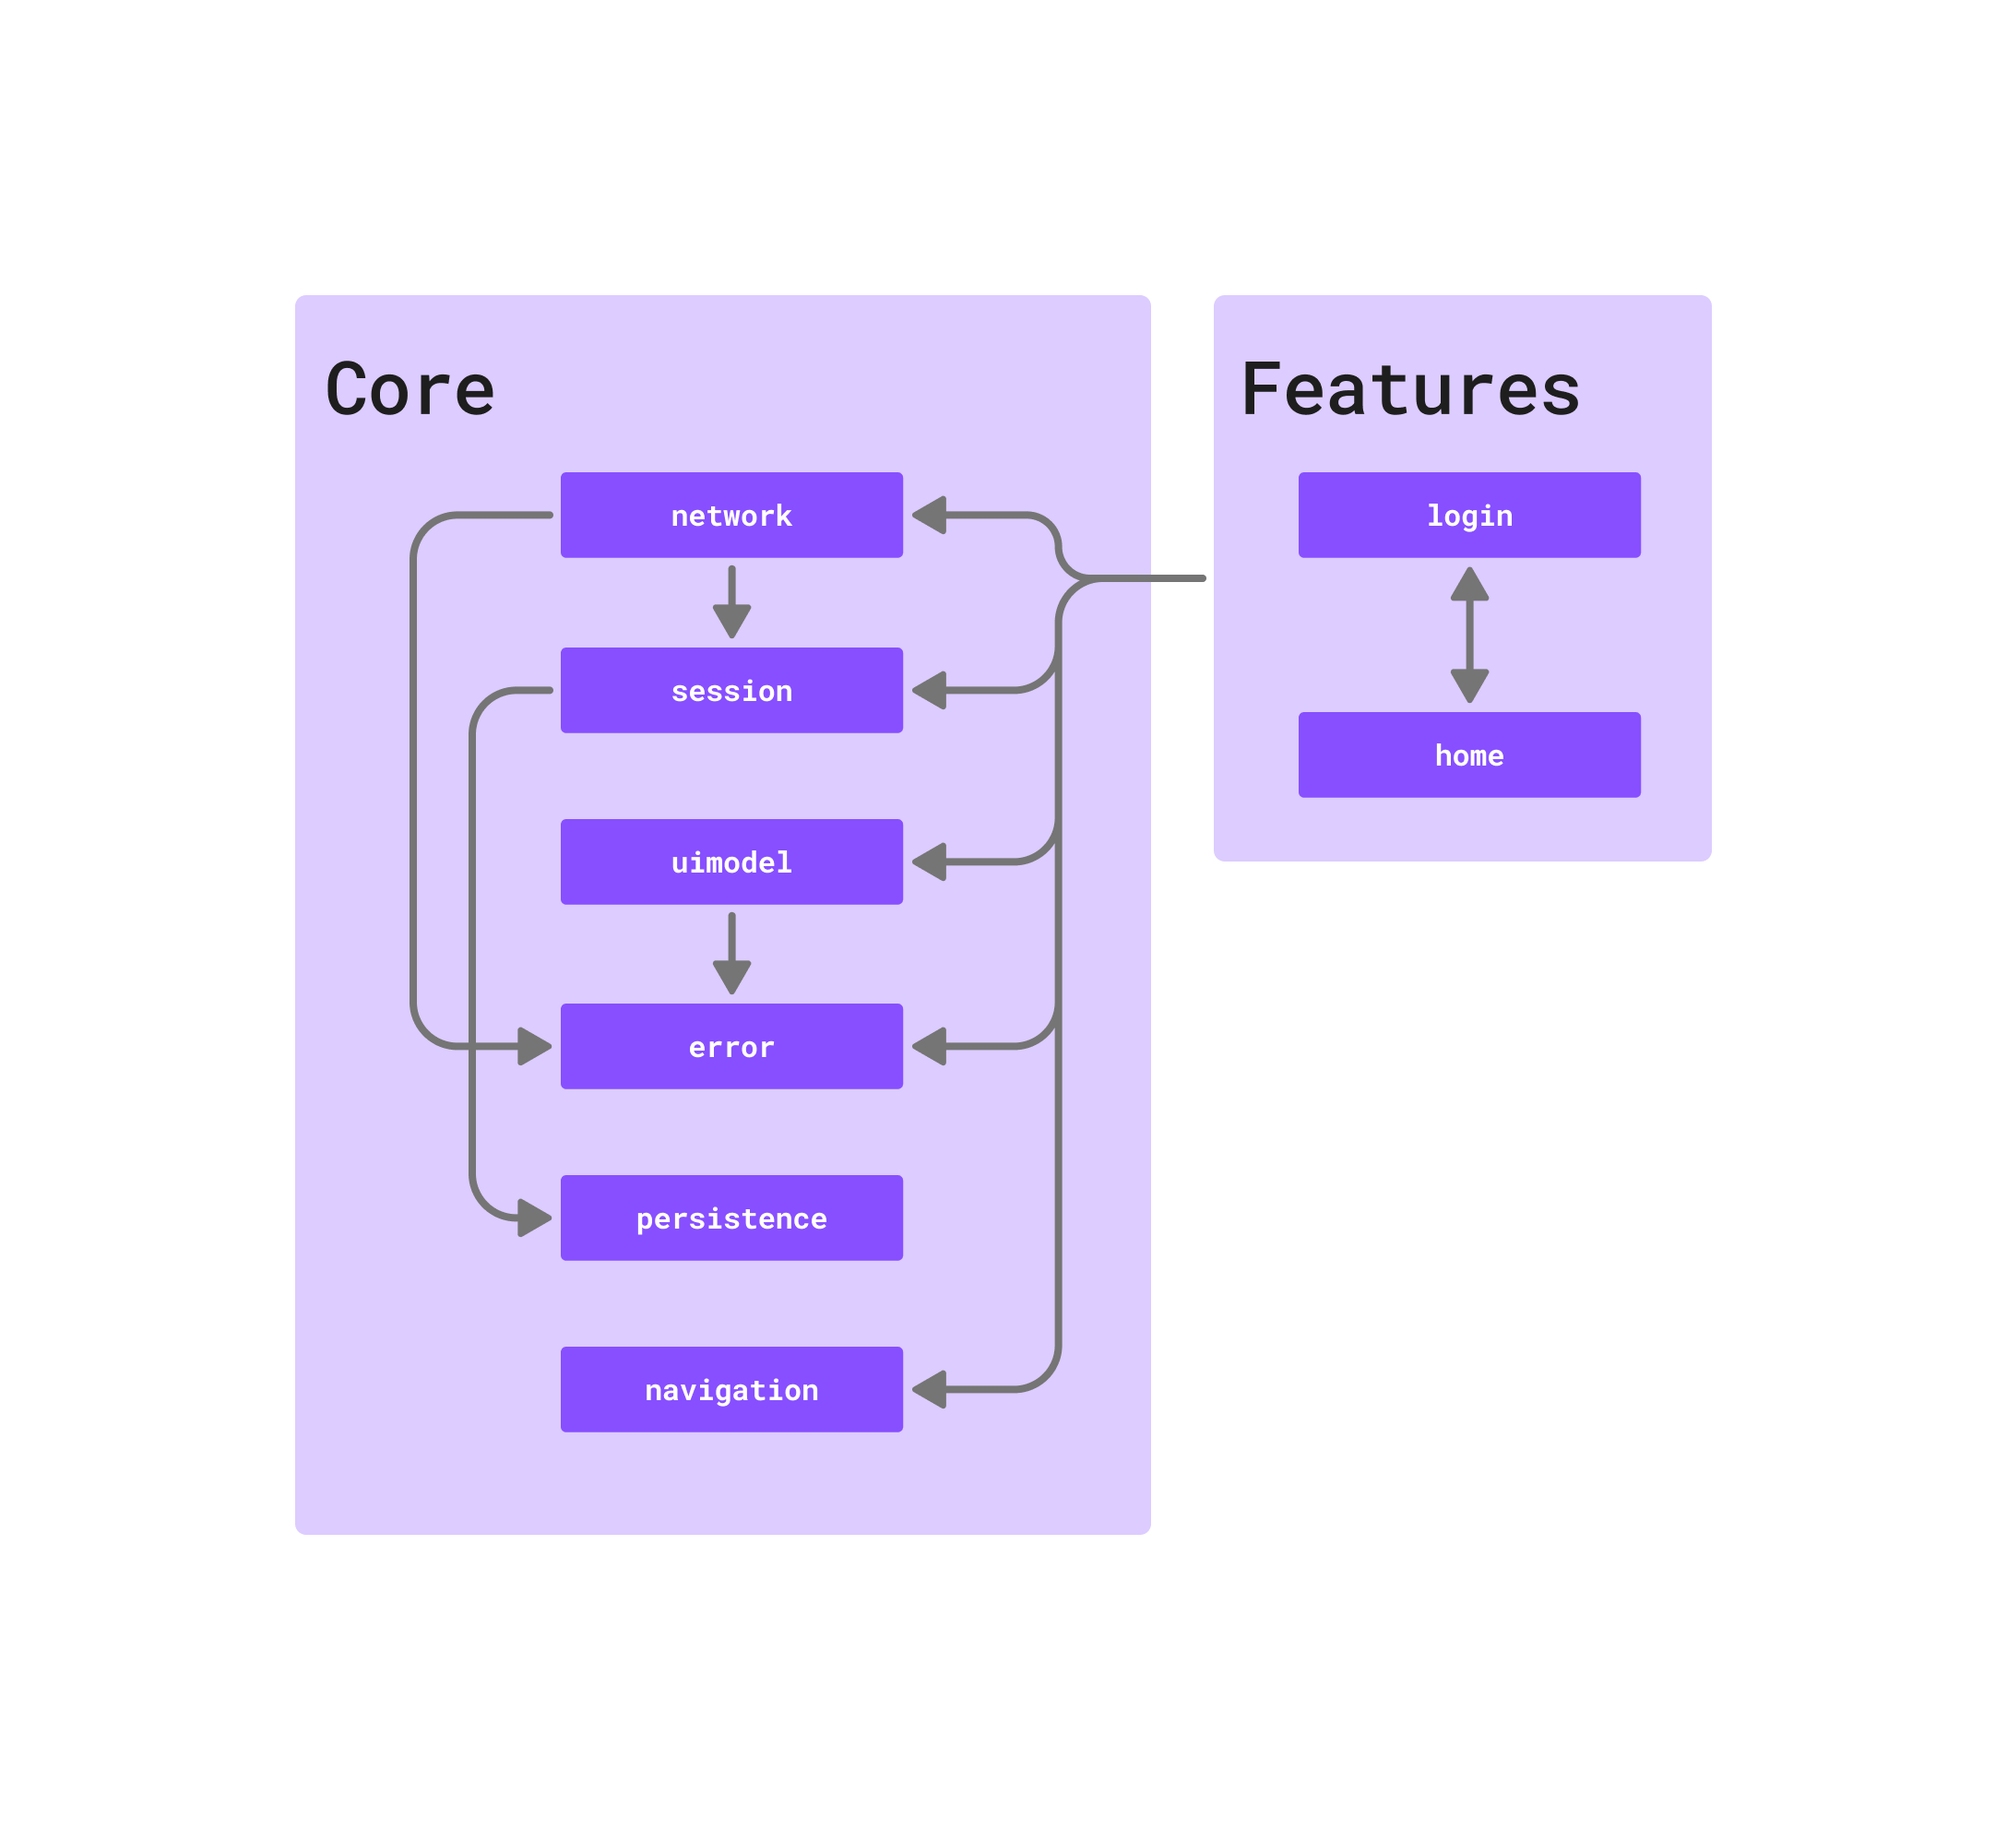
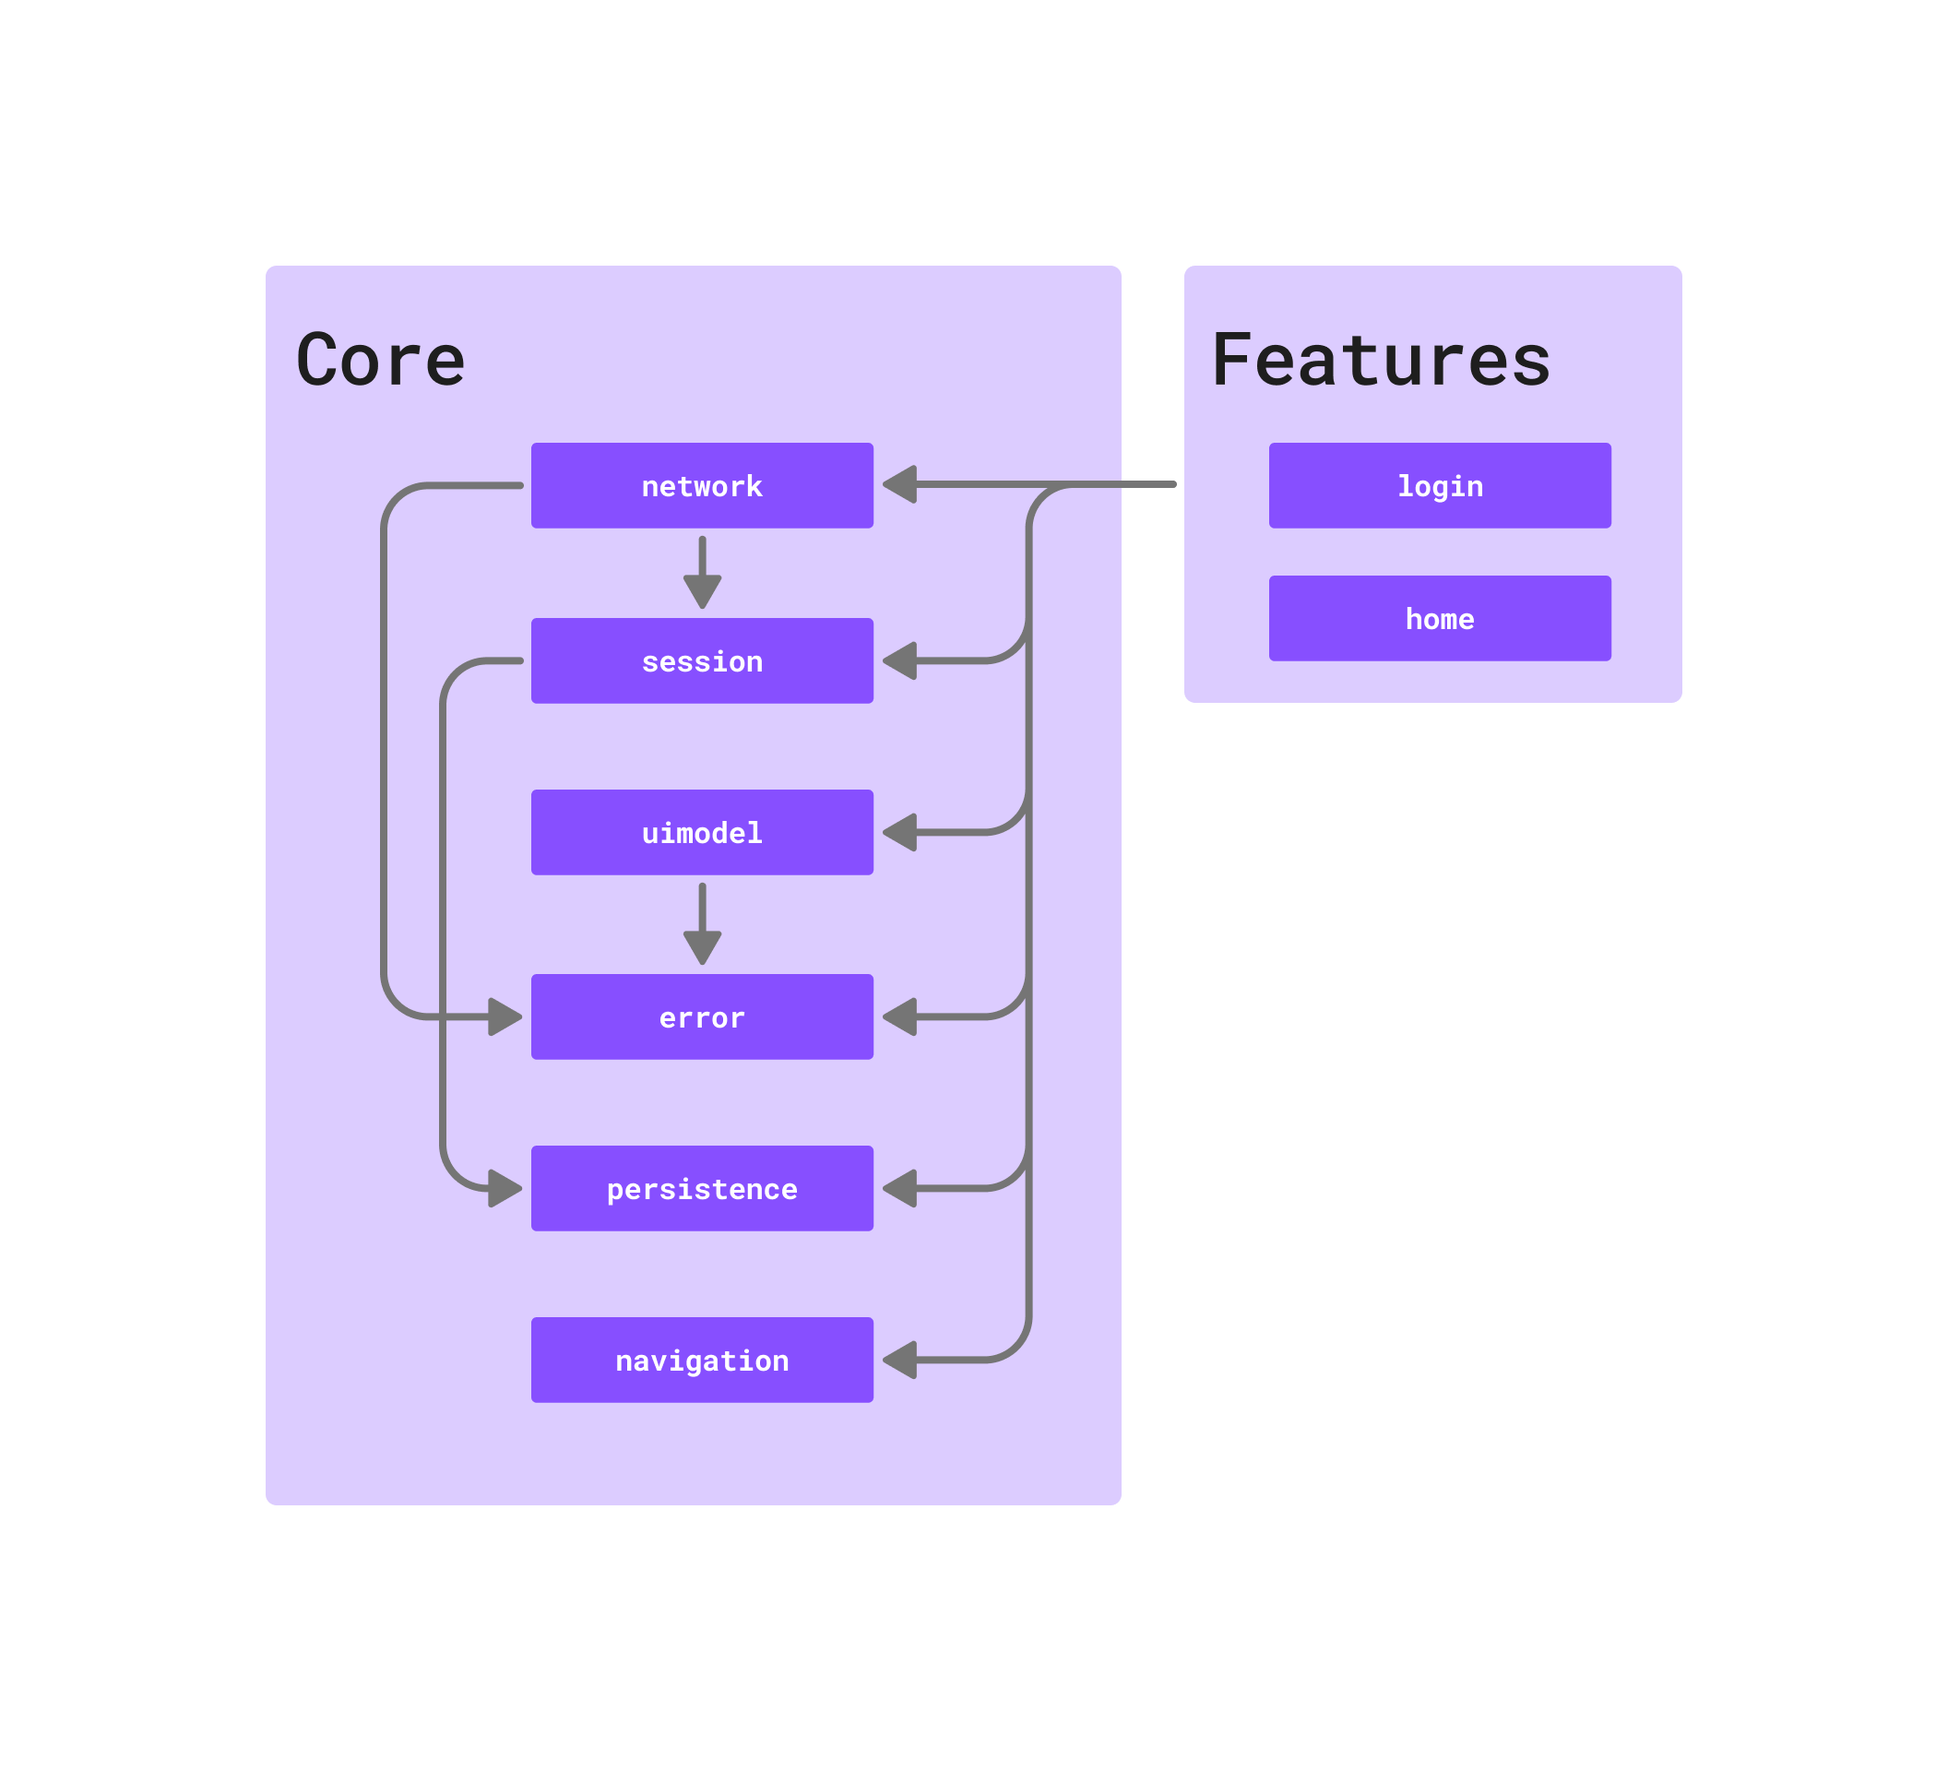
chore: added new images for modularization

diff --git a/posts/kmp102/KMP102-parte5.md b/posts/kmp102/KMP102-parte5.md
@@ -1,10 +1,11 @@
 ## Explorando a Modularização no KMP
 
-No último artigo, entramos em detalhes e aprendemos sobre as peculiaridades do código exportado nos headers do Objective-C, assim como as boas práticas no que exportar. 
+No último artigo, entramos em detalhes e aprendemos sobre as peculiaridades do código exportado nos headers do Objective-C, assim como as boas práticas no que exportar.
 
-Nesse artigo, vamos entender melhor sobre o comportamento da modularização em  projetos KMP, e como isso pode ser feito de forma eficiente e organizada.
+Nesse artigo, vamos entender melhor sobre o comportamento da modularização em projetos KMP, e como isso pode ser feito de forma eficiente e organizada.
 
 ## O que é modularização?
+
 Não irei me alongar muito nesse tópico, pois já abordamos esse assunto no [Android Plataforma - Parte 1: Modularização](https://dev.to/rsicarelli/android-plataforma-parte-1-modularizacao-2016). Se não tem certeza do que é modularização, recomendo uma pausa para a leitura do artigo.
 
 Em resumo, modularização é a prática de dividir um projeto em módulos menores e independentes, que podem ser desenvolvidos, testados e mantidos separadamente.
@@ -12,11 +13,25 @@ Em resumo, modularização é a prática de dividir um projeto em módulos menor
 Essa prática é crucial para escalar projetos KMP, já que a modularização impacta diretamente na autonomia e independência dos times internos, evitando que um time dependa do outro para realizar suas tarefas.
 
 ## Modularização no KMP
+
 No KMP, a modularização é feita através de módulos compartilhados, que são responsáveis por compartilhar código entre as plataformas.
 
-Vamos elaborar uma estrutura de módulos que respeite a separação de responsabilidades e possibilite a reutilização de código de forma eficiente entre módulos:
+Vamos elaborar uma estrutura de módulos que respeite a separação de responsabilidades e possibilite a reutilização de código de forma eficiente entre módulos. Nosso contexto aqui é pensando em uma aplicação que irá escalar, no sentido de mais features e mais plataformas:
 
-<p align="center">
-  <img src="https://github.com/rsicarelli/KMP-101/blob/main/posts/assets/kmp-modularization-pt1.png?raw=true" width="300" />
-</p>
+<img src="https://github.com/rsicarelli/KMP-101/blob/main/posts/assets/kmp-modularization-pt1.png?raw=true" />
+
+Essa estrutura segue algumas ideias do Domain Driven Design (DDD), onde cada módulo representa um domínio independente e isolado da aplicação. Não irei entrar em muitos detalhes sobre o DDD, mas recomendo a leitura do livro [Domain-Driven Design: Tackling Complexity in the Heart of Software](https://www.amazon.com.br/Domain-Driven-Design-Tackling-Complexity-Software/dp/0321125215/ref=sr_1_1?dib=eyJ2IjoiMSJ9.Lo7-Md3VvIV38Rzn-ytmnX1FyJz_hHxG_c3ocyge7LEEkMf9J0QQUC_vNRqM-bly1FEW6JDWiQjxRiR4Ip4uOSi5BDadwwQLRq-qGmgXmoG36NnUp66mVBVEOL-xFpHChmTWdyWDB5EZGboxu2dOIVTrzRS54KI4S6rDRsLLLoSAkU9bCl81j0cePEicQvqB.QPWgwg7lUfTottKjOov5grb2CciIICVV12MWxs8bueA&dib_tag=se&keywords=Domain-Driven-Design-Tackling-Complexity-Software&qid=1739362218&sr=8-1&ufe=app_do%3Aamzn1.fos.4bddec23-2dcf-4403-8597-e1a02442043d) para entender melhor sobre o assunto.
+
+Com essa estrutura, conseguimos:
+- Escalar de forma eficiente sem duplicação de código. Ao criar uma nova feature, basta criar um novo módulo e adicionar as dependências necessárias.
+- Ter uma granulalidade no que será exportado para as outras plataformas, especialmente para o XCFramework.
+- Ter a independencia de domínio para times específicos, evitando conflitos de código e responsabilidades. Por exemplo, times podem criar um `CODEOWNER` para um módulo específico, e serem responsáveis por manter e evoluir esse módulo.
+
+## Pavimentando flexibilidade de UI
+Uma dos super poderes do KMP é compartilhar muito, ou pouco código. Essa habilidade implica que podemos  escolher qual UI iremos utilizar em cada plataforma. Dependendo da sua estratégia de construção de UI, você irá precisar de uma abordagem específica de módulos para criar essa flexibilidade.
+
+Para isso, eu gosto de separar cada tela em um "frontend" e "backend". Seguindo o padrão de arquitetura MVVM, o "frontend" seria a nossa UI (Compose, SwiftUI) e o "backend" seria a nossa lógica de negócio (ViewModel/UiModel + Domain + Data). Ou seja, partes da camada de apresentação pode ser compartilhada, mas damos a liberdade para cada plataforma de escolher a sua UI.
+
+Com isso em mente, uma abordagem é a seguinte separação de módulos:
+
 
